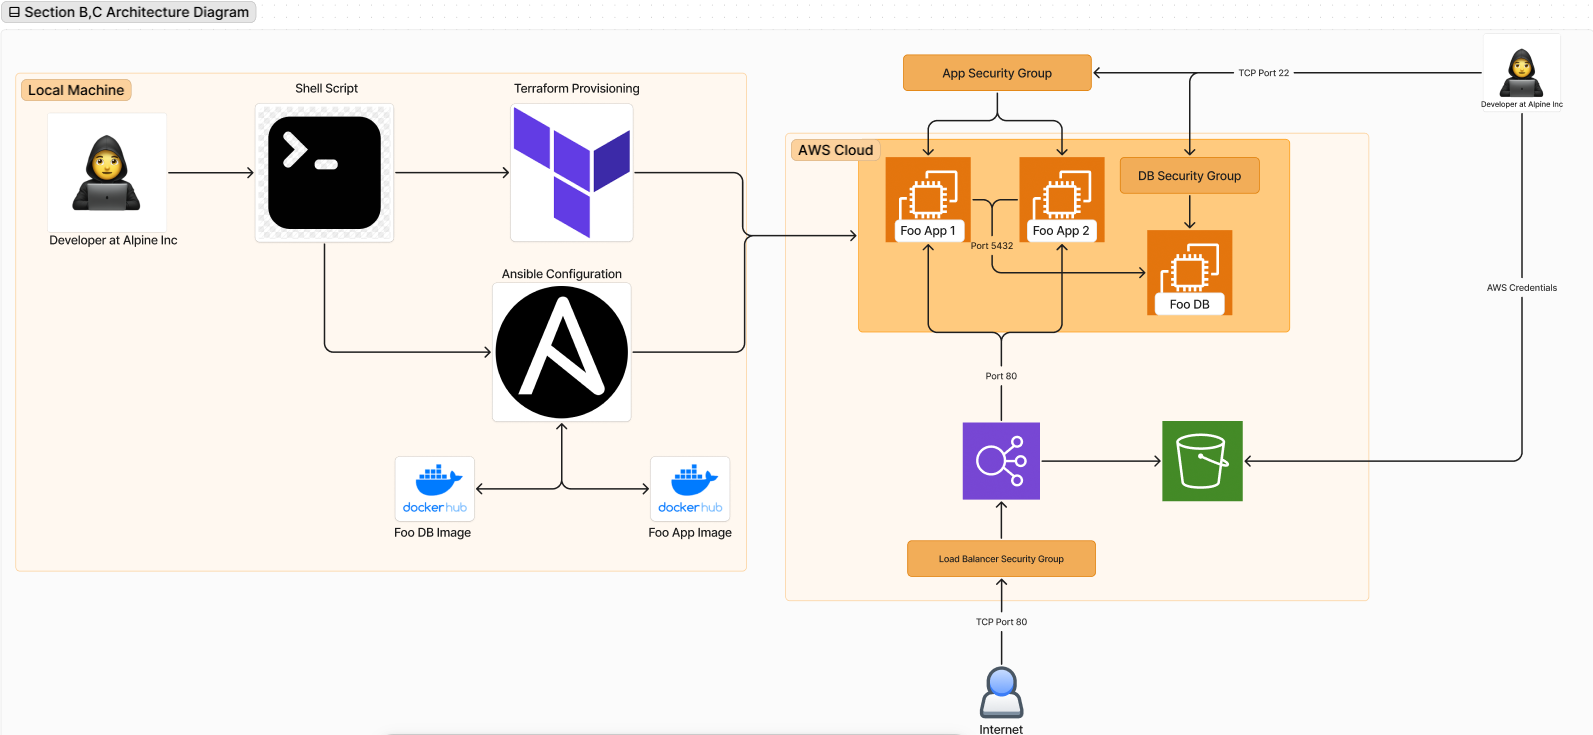
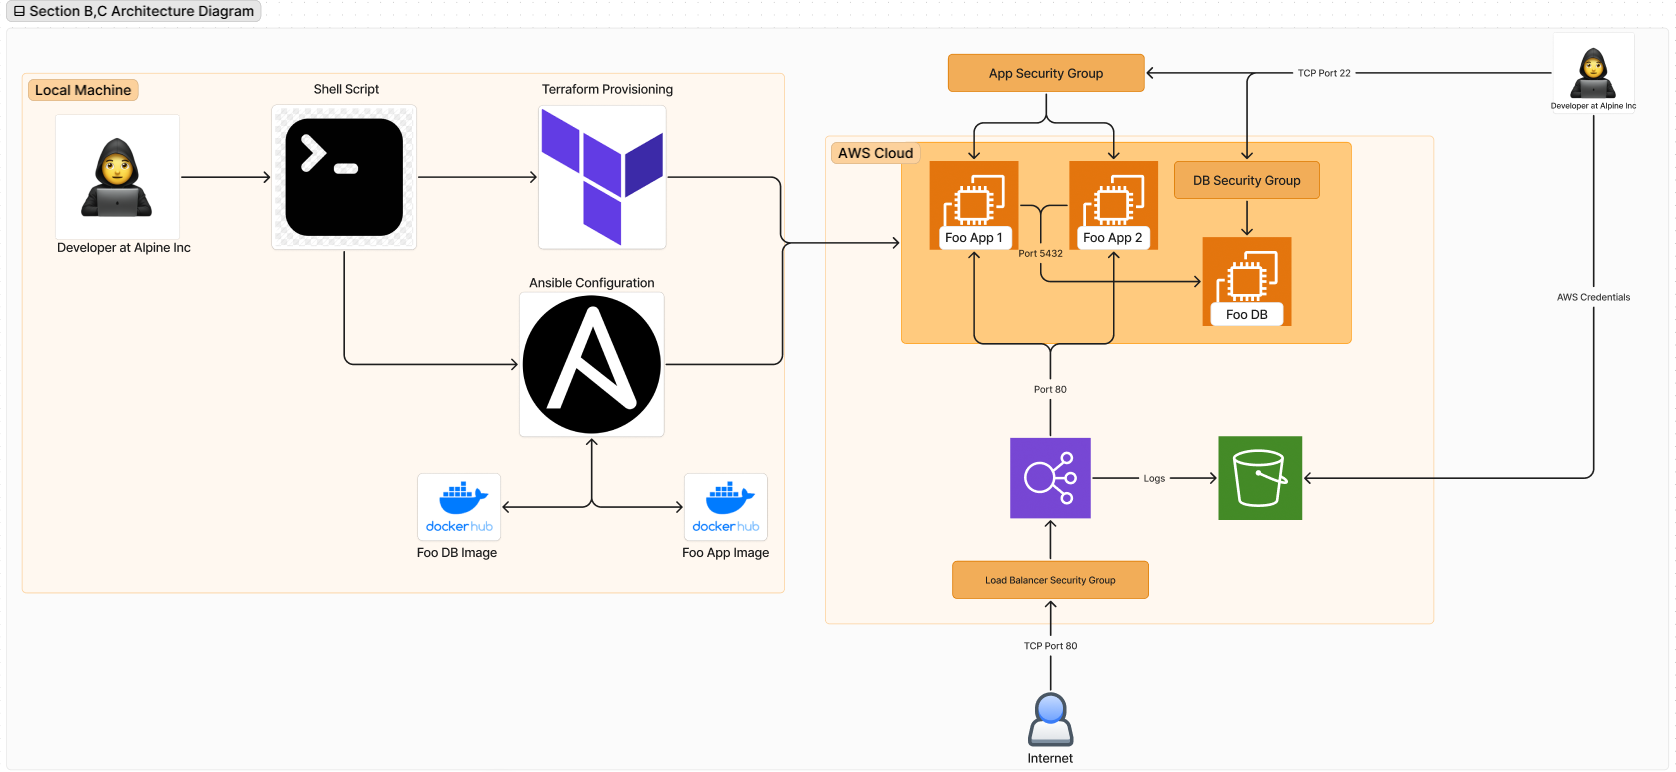
fix: fixed readme again (#29)

diff --git a/README.md b/README.md
@@ -324,7 +324,7 @@ load-balancer.tf - Logs from the load balancer are sent to the s3 bucket in orde
     - `s3-bucket-infra.tf`
 - `misc/`: A directory containing files given by Alpine Inc. for the deployment proces, as well as the architecture diagram.
     - `COSC2759 A2 Architecture Diagram (single instance).png`
-
+    - `COSC2759 A2 Architecture Diagram (multi instance).png`
     - `COSC2759 A2 Application.gif`
     - `main-branch-protection.webp`
     - `main-branch-protection-2.webp`
